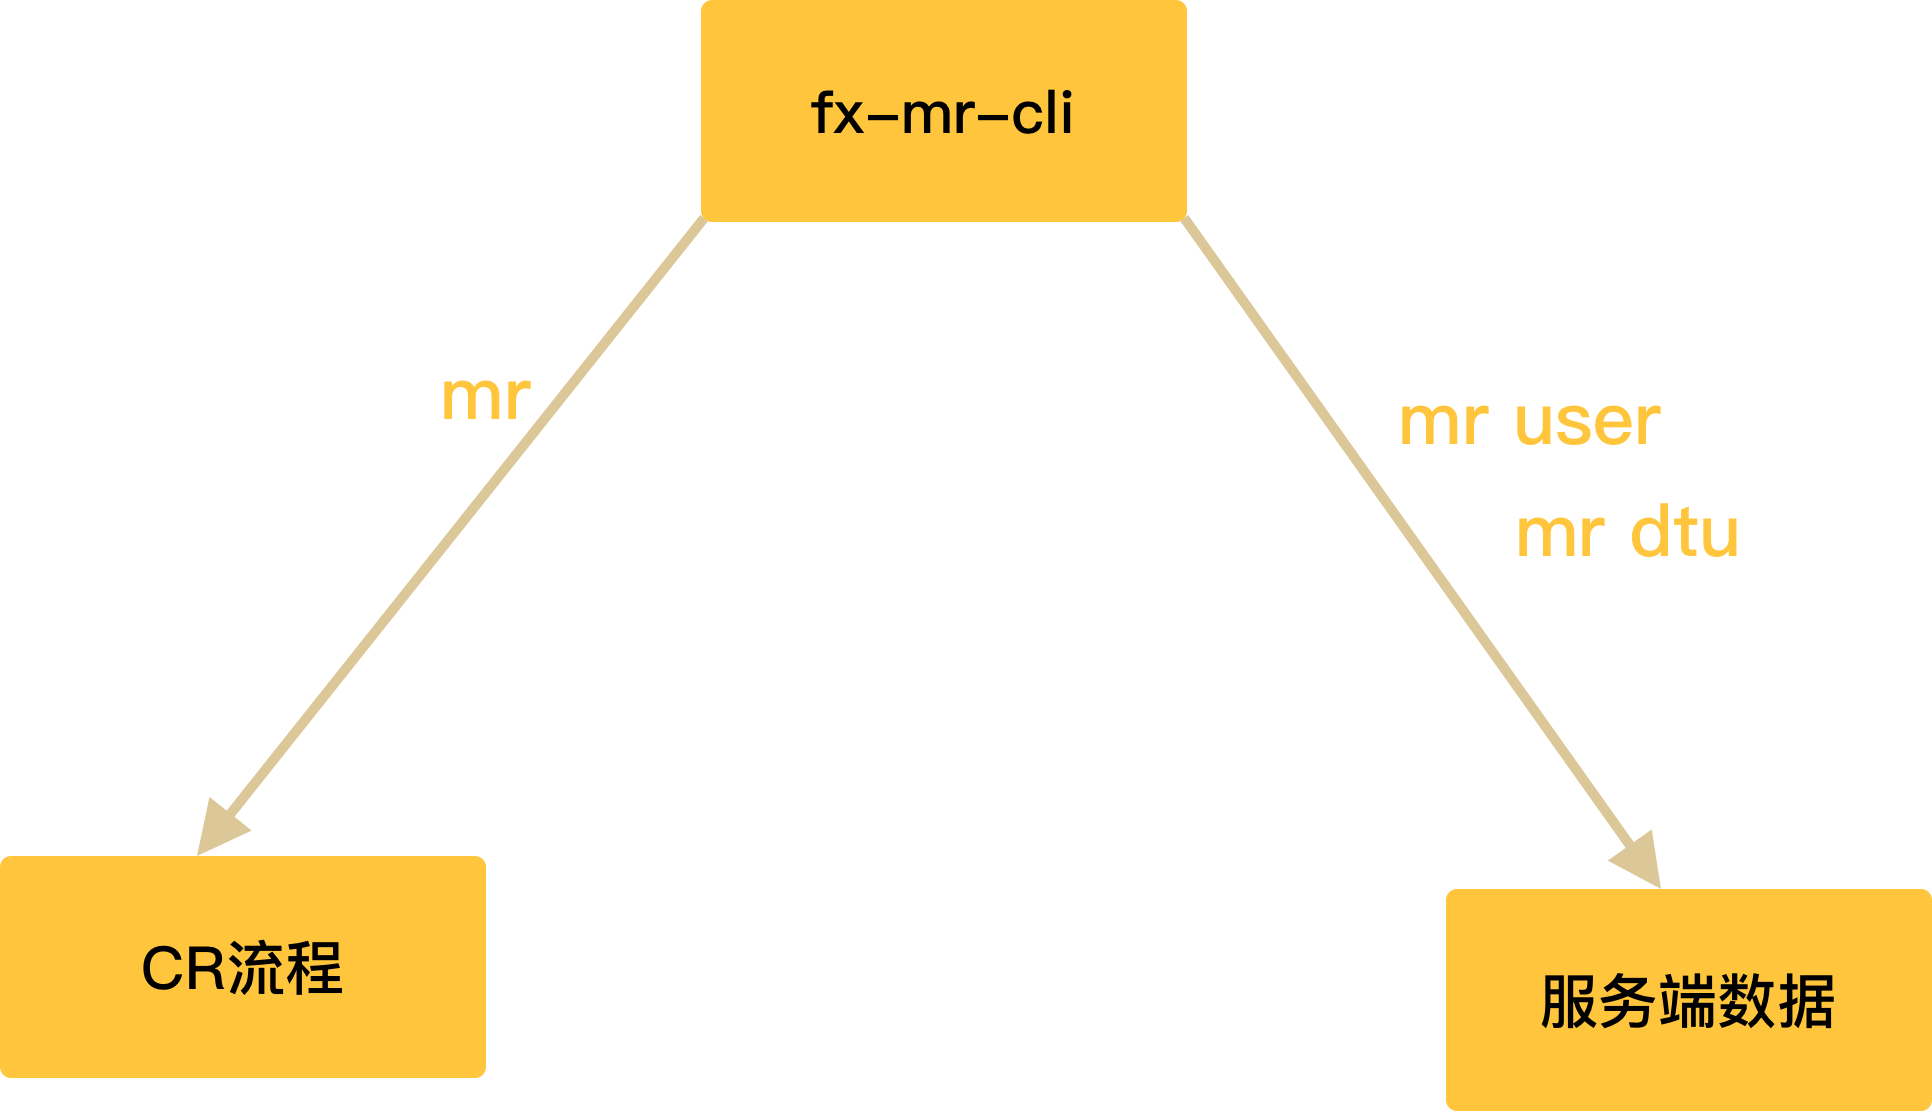
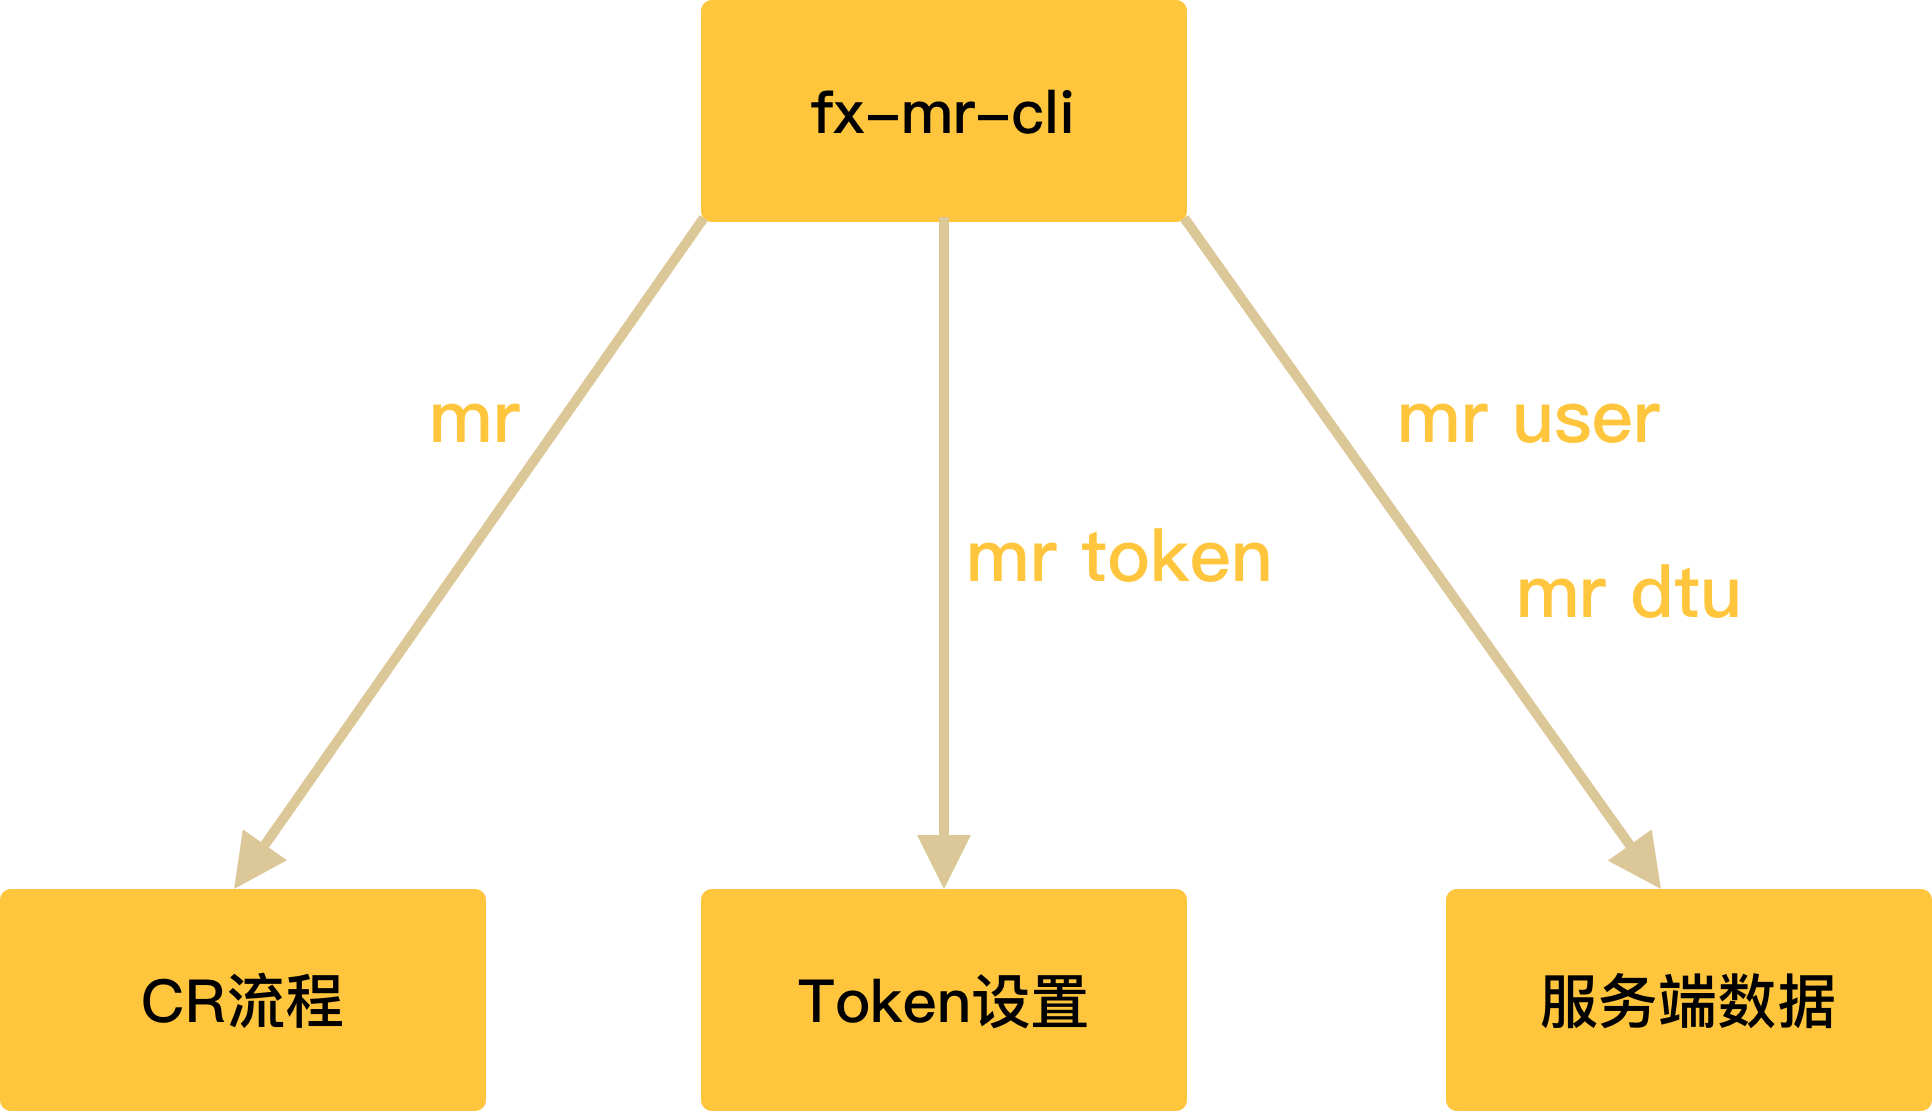
📃 docs:

diff --git a/docs/share/code_review2.0.md b/docs/share/code_review2.0.md
@@ -1,28 +1,20 @@
-<!--
- * @Descripttion: 
- * @version: 
- * @Author: qiuxchao
- * @Date: 2022-08-18 15:45:21
- * @LastEditors: qiuxchao
- * @LastEditTime: 2022-09-05 16:07:16
--->
 # Code Review 2.0
 
 Code Review 1.0 中存在的问题：
 
-- 只在小程序项目中配置了 `Node` 脚本，不支持其它项目，如要支持其它项目需拷贝代码，扩展性差；
+- 只在小程序项目中配置了 `mr` 脚本，不支持其它项目，如要支持其它项目需拷贝代码，扩展性差；
 - 脚本中所有人的 `GitLab Token` 都暴露出来，安全性差；
 - 服务端的数据（用户数据、机器人地址数据）都需要手动修改代码来维护。
 
 2.0 解决问题：
 
-- 将原来的 `mr` 脚本编写成命令行工具 `npm` 包，实现一次安装多处使用；
-- 只用在安装 `mr` 包时配置一次 `GitLab Token`，且都存储在用户本地；
-- 提供与服务端交互的子命令，可以直接在前端维护服务端数据。
+- 将原来的 `mr` 脚本编写成命令行工具 `npm` 包，实现一次安装多处使用 👍；
+- 只用在安装 `mr` 包时配置一次 `GitLab Token`，且存储在用户本地，便捷性、安全性 🆙；
+- 提供与服务端交互的子命令，可以直接在前端维护服务端数据 🔨。
 
 ![fx_mr_cli](./image/fx_mr_cli.png)
 
-> [🔗mr工具使用文档](https://fenxianglife.yuque.com/technical-team/front/qpy4io)
+> [🔗 mr工具使用文档](https://fenxianglife.yuque.com/technical-team/front/qpy4io)
 
 ## 前端实现
 
@@ -30,11 +22,12 @@ Code Review 1.0 中存在的问题：
 
 - 将项目编写成 `npm` 包，发布在公司私有仓库上
 
+> [🔗 fx-mr-cli 项目地址](https://gitlab.fenxianglife.com/baseFE/FX-mr-cli)
 ### yargs 命令行解析库
 
 `yargs` 是一个命令行参数解析库，可以帮助我们快速构建一个命令行程序。类似功能的库还有 `commander`、`meow`。
 
-> [🔗官方文档](http://yargs.js.org/docs/)
+> [🔗 官方文档](http://yargs.js.org/docs/)
 
 #### option 选项
 
@@ -45,7 +38,7 @@ $ mr -h
 $ mr -v
 ```
 
-[使用方法](http://yargs.js.org/docs/#api-reference-optionkey-opt)
+> [🔗 option 使用方法](http://yargs.js.org/docs/#api-reference-optionkey-opt)
 
 #### command 子命令
 
@@ -57,7 +50,7 @@ $ mr user
 $ mr dtu
 ```
 
-[使用方法](http://yargs.js.org/docs/#api-reference-commandcmd-desc-builder-handler)
+> [🔗 command 使用方法](http://yargs.js.org/docs/#api-reference-commandcmd-desc-builder-handler)
 
 
 ### npm 发包
@@ -99,6 +92,8 @@ $ mr dtu
 ## 服务端实现
 
 服务端按照 `egg` 的规范对代码进行了重构，使其便于维护。
+
+> [🔗 服务端项目地址](https://gitlab.fenxianglife.com/baseFE/FX-review-server)
 
 ### egg 基础功能
 
